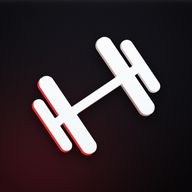
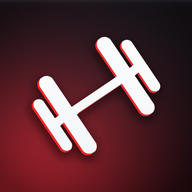
Icona: rosso piu visibile; menu con filo bianco sopra
Claude-Session: https://claude.ai/code/session_01HK4HKgVCou94mENysarbi4

diff --git a/index.html b/index.html
@@ -109,7 +109,7 @@ textarea{font-size:13px;font-family:ui-monospace,Menlo,monospace;text-align:left
 .tabs{
   position:fixed;left:0;right:0;bottom:0;z-index:30;display:flex;justify-content:space-around;
   padding:8px 12px calc(8px + env(safe-area-inset-bottom,0px));
-  background:#050506;border-top:.5px solid rgba(255,255,255,.12)
+  background:#050506;border-top:1px solid rgba(255,255,255,.55);box-shadow:0 -8px 24px rgba(0,0,0,.6)
 }
 .tabs button{flex:1;border:0;background:transparent;color:#7d7d85;display:flex;flex-direction:column;align-items:center;gap:4px;font:600 11px var(--font);padding:8px 4px;border-radius:12px;transition:color .2s}
 .tabs button.on{color:#fff}

diff --git a/sw.js b/sw.js
@@ -1,4 +1,4 @@
-const V="dt-v10";
+const V="dt-v11";
 const FILES=["./","./index.html","./manifest.webmanifest","./icon-192.png","./icon-512.png","./apple-touch-icon.png","./bg-d1.jpg","./bg-d2.jpg","./bg-d3.jpg","./bg-n.jpg"];
 self.addEventListener("install",e=>{e.waitUntil(caches.open(V).then(c=>c.addAll(FILES)).then(()=>self.skipWaiting()));});
 self.addEventListener("activate",e=>{e.waitUntil(caches.keys().then(ks=>Promise.all(ks.filter(k=>k!==V).map(k=>caches.delete(k)))).then(()=>self.clients.claim()));});
